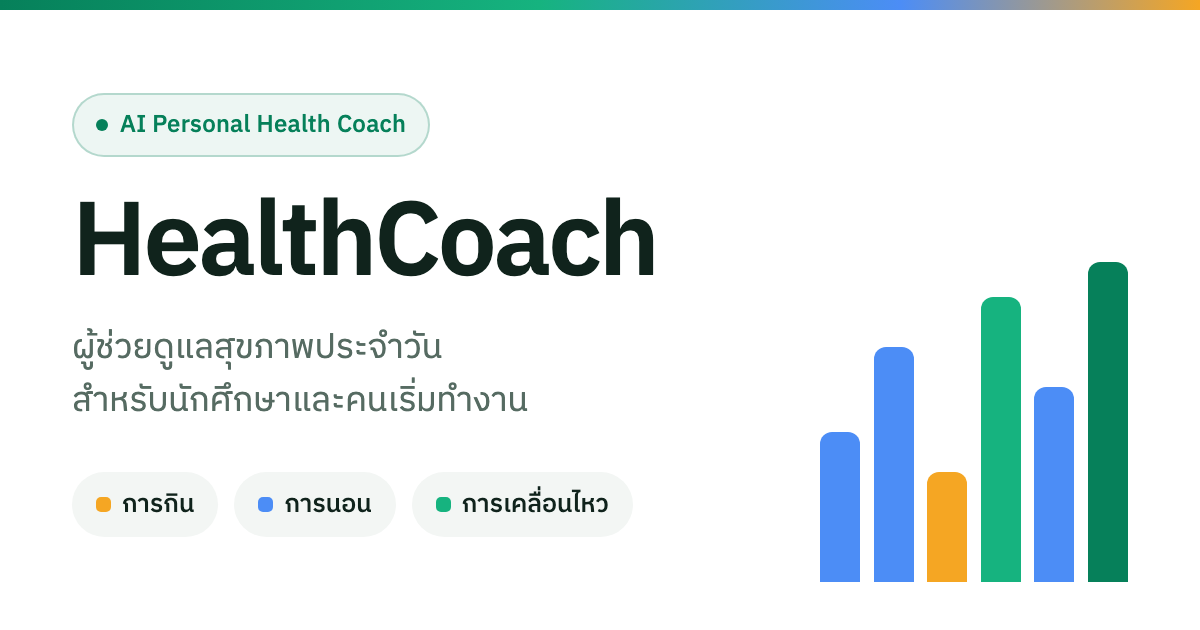
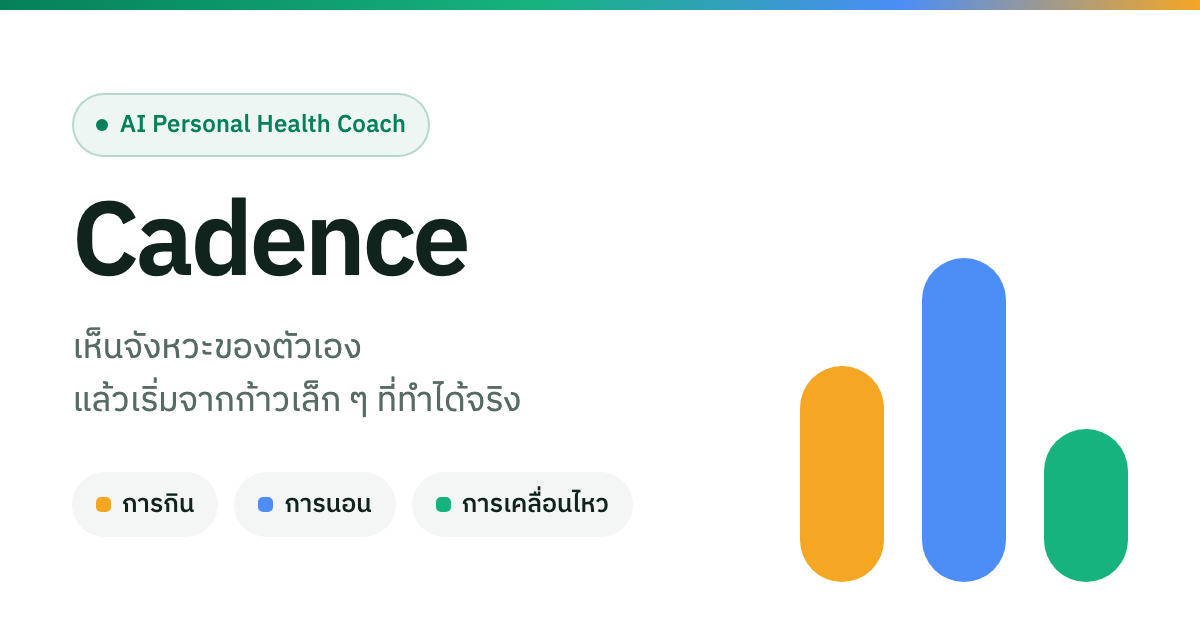
feat(brand): rename the product to Cadence and give it a mark (INFRA-28)
The mission brief prescribes fourteen deliverables and no name, so the name
was ours to choose — and "HealthCoach" promised the one thing this app
deliberately refuses to do. We removed the target rings, the scores and the
denominators because section 8 forbids pressure, then kept a name that says
we will coach you into being healthy.

Cadence says what the product actually shows: the rhythm of your days. No
cadence is right or wrong; it is just yours. The mark is the three pillars —
eating, sleep, movement — in the same chart tokens the dashboard already
uses, so brand and data are one idea rather than two.

Every URL is left untouched on purpose. Production stays on
personal-healthcoach.vercel.app, the Vercel project keeps its old name, and
the preview wildcard in ADR-0005 is unchanged, because renaming any of them
would force edits to the Supabase redirect allowlist and the Google OAuth
config — the one path in this project still unverified end to end. Judges do
not score the URL. The rename script skips any line carrying those
identifiers; package.json is left alone too, since touching it moves the lock
file.

The mark reads its colours from CSS variables so dark mode needs no branch.
The favicon moves from favicon.ico to an icon.svg file convention, which is
static and therefore carries literal hex — CSS variables cannot reach a file
the browser loads as an icon.

Renaming also exposed a test that had been passing for free: routes.spec.ts
[…]

Changed region(s): [[0.6475, 0.3921, 0.9558, 0.9349], [0.0617, 0.3016, 0.555, 0.4524], [0.0617, 0.5127, 0.4625, 0.6635]]

diff --git a/src/components/brand.tsx b/src/components/brand.tsx
@@ -1,0 +1,28 @@
+import { cn } from "@/lib/utils";
+
+export function BrandMark({ className }: { className?: string }) {
+  return (
+    <svg viewBox="0 0 48 48" aria-hidden className={cn("shrink-0", className)}>
+      <rect x="5" y="19" width="10" height="24" rx="5" fill="var(--chart-2)" />
+      <rect x="19" y="7" width="10" height="36" rx="5" fill="var(--chart-1)" />
+      <rect x="33" y="26" width="10" height="17" rx="5" fill="var(--chart-3)" />
+    </svg>
+  );
+}
+
+export function BrandLockup({
+  className,
+  markClassName,
+  wordClassName,
+}: {
+  className?: string;
+  markClassName?: string;
+  wordClassName?: string;
+}) {
+  return (
+    <span className={cn("flex items-center gap-2", className)}>
+      <BrandMark className={cn("size-6", markClassName)} />
+      <span className={cn("font-semibold", wordClassName)}>Cadence</span>
+    </span>
+  );
+}

diff --git a/src/app/page.tsx b/src/app/page.tsx
@@ -1,6 +1,7 @@
 import Link from "next/link";
 import { redirect } from "next/navigation";
 import { createClient } from "@/lib/supabase/server";
+import { BrandMark } from "@/components/brand";
 import { PILLAR_COLORS, PILLAR_ICONS, PILLAR_ORDER } from "@/components/pillar-visual";
 import { SafetyNotice } from "@/components/safety-notice";
 import { buttonVariants } from "@/components/ui/button";
@@ -17,7 +18,10 @@ export default async function LandingPage() {
   return (
     <main className="flex min-h-dvh flex-col items-center justify-center gap-8 p-4 text-center">
       <div className="space-y-3">
-        <h1 className="text-4xl font-bold tracking-tight">HealthCoach</h1>
+        <h1 className="flex items-center justify-center gap-3 text-4xl font-bold tracking-tight">
+          <BrandMark className="size-10" />
+          Cadence
+        </h1>
         <p className="max-w-md text-muted-foreground">
           ผู้ช่วยดูแลสุขภาพประจำวันสำหรับนักศึกษาและคนเริ่มทำงาน — เห็น pattern การกิน การนอน
           การเคลื่อนไหว แล้วเริ่มจากก้าวเล็ก ๆ ที่ทำได้จริง

diff --git a/src/components/onboarding/onboarding-form.tsx b/src/components/onboarding/onboarding-form.tsx
@@ -21,7 +21,7 @@ import { Label } from "@/components/ui/label";
 import { Card, CardContent, CardDescription, CardHeader, CardTitle } from "@/components/ui/card";
 
 const DISCLAIMER =
-  "HealthCoach เป็นผู้ช่วยดูแลสุขภาพประจำวัน (wellness coach) ไม่ใช่บริการทางการแพทย์ — ไม่วินิจฉัยโรค ไม่แนะนำยาหรืออาหารเสริม ไม่ให้แผนลดน้ำหนัก หากมีอาการผิดปกติหรือกังวลเรื่องสุขภาพ ควรปรึกษาแพทย์หรือผู้เชี่ยวชาญ";
+  "Cadence เป็นผู้ช่วยดูแลสุขภาพประจำวัน (wellness coach) ไม่ใช่บริการทางการแพทย์ — ไม่วินิจฉัยโรค ไม่แนะนำยาหรืออาหารเสริม ไม่ให้แผนลดน้ำหนัก หากมีอาการผิดปกติหรือกังวลเรื่องสุขภาพ ควรปรึกษาแพทย์หรือผู้เชี่ยวชาญ";
 
 const TOTAL_STEPS = 5;
 
@@ -68,7 +68,7 @@ export function OnboardingForm({ defaultName }: { defaultName: string }) {
 
   return (
     <main className="flex min-h-dvh items-center justify-center p-4">
-      <h1 className="sr-only">ตั้งค่าเริ่มต้น HealthCoach</h1>
+      <h1 className="sr-only">ตั้งค่าเริ่มต้น Cadence</h1>
       <Card className="w-full max-w-md">
         <CardHeader>
           <CardTitle>ตั้งค่าเริ่มต้น</CardTitle>
@@ -187,7 +187,7 @@ export function OnboardingForm({ defaultName }: { defaultName: string }) {
                     <Check className="size-3.5 text-primary-foreground opacity-0 peer-checked:opacity-100" />
                   </span>
                   <span>
-                    ฉันเข้าใจว่า HealthCoach เป็นผู้ช่วยดูแลสุขภาพทั่วไป ไม่ใช่คำแนะนำทางการแพทย์
+                    ฉันเข้าใจว่า Cadence เป็นผู้ช่วยดูแลสุขภาพทั่วไป ไม่ใช่คำแนะนำทางการแพทย์
                   </span>
                 </label>
               </div>

diff --git a/src/app/layout.tsx b/src/app/layout.tsx
@@ -17,8 +17,8 @@ const plexMono = IBM_Plex_Mono({
 export const metadata: Metadata = {
   metadataBase: new URL("https://personal-healthcoach.vercel.app"),
   title: {
-    default: "HealthCoach",
-    template: "%s · HealthCoach",
+    default: "Cadence",
+    template: "%s · Cadence",
   },
   description: "ผู้ช่วยดูแลสุขภาพประจำวันสำหรับนักศึกษาและคนเริ่มทำงาน",
 };

diff --git a/src/app/(app)/layout.tsx b/src/app/(app)/layout.tsx
@@ -2,6 +2,7 @@ import type { ReactNode } from "react";
 import { redirect } from "next/navigation";
 import { getCurrentUser, hasCompletedOnboarding } from "@/lib/auth/user";
 import { AppNav } from "@/components/app-nav";
+import { BrandLockup } from "@/components/brand";
 import { AppSidebar } from "@/components/app-sidebar";
 import { PageContainer } from "@/components/page-container";
 import { SafetyNotice } from "@/components/safety-notice";
@@ -26,7 +27,7 @@ export default async function AppLayout({ children }: { children: ReactNode }) {
       <div className="flex min-w-0 flex-1 flex-col">
         <header className="sticky top-0 z-10 border-b bg-background lg:hidden">
           <div className="mx-auto flex w-full max-w-5xl items-center justify-between px-4 py-2">
-            <span className="font-semibold">HealthCoach</span>
+            <BrandLockup markClassName="size-5" />
             <SignOutIconButton />
           </div>
         </header>

diff --git a/src/components/app-sidebar.tsx b/src/components/app-sidebar.tsx
@@ -3,6 +3,7 @@
 import Link from "next/link";
 import { usePathname } from "next/navigation";
 import { cn } from "@/lib/utils";
+import { BrandLockup } from "./brand";
 import { NavIcon } from "./nav-pending";
 import { NAV_ITEMS, isActivePath } from "./nav-items";
 import { SignOutMenuItem } from "./sign-out-button";
@@ -13,7 +14,7 @@ export function AppSidebar() {
   return (
     <aside className="hidden w-64 shrink-0 border-r bg-muted/30 lg:block">
       <div className="sticky top-0 flex h-dvh flex-col gap-8 p-5">
-        <span className="px-3 pt-2 text-lg font-semibold">HealthCoach</span>
+        <BrandLockup className="px-3 pt-2" wordClassName="text-lg" />
 
         <nav aria-label="เมนูหลัก">
           <ul className="space-y-1">

diff --git a/e2e/routes.spec.ts b/e2e/routes.spec.ts
@@ -72,7 +72,7 @@ test("dashboard — ข้อมูล seed ของปาล์มโผล่
 
   await expect(page.getByText("สรุปวันนี้")).toBeVisible();
   await expect(page.getByText("เป้าหมายสัปดาห์นี้", { exact: true })).toBeVisible();
-  await expect(page.getByText("ยินดีต้อนรับสู่ HealthCoach 👋")).toBeHidden();
+  await expect(page.getByText("ยังไม่มีข้อมูลสุขภาพ")).toBeHidden();
 });
 
 test("dashboard — การ์ดวิเคราะห์รูปแบบ (F2-04) แสดงทุกสถานะ cache", async ({ page }) => {

diff --git a/src/app/(app)/settings/privacy/page.tsx b/src/app/(app)/settings/privacy/page.tsx
@@ -41,7 +41,7 @@ export default function PrivacyPage() {
 
         <Card className="border-primary/10 bg-accent/20">
           <CardContent className="text-sm text-foreground">
-            HealthCoach เก็บบันทึกการกิน การนอน และการเคลื่อนไหวที่คุณกรอกเอง เพื่อแสดง pattern
+            Cadence เก็บบันทึกการกิน การนอน และการเคลื่อนไหวที่คุณกรอกเอง เพื่อแสดง pattern
             และให้คำแนะนำสำหรับคุณเท่านั้น ข้อมูลของคุณไม่ถูกแชร์ให้ผู้ใช้คนอื่นหรือบุคคลที่สาม
             คุณแก้ไขหรือลบข้อมูลทั้งหมดได้ทุกเมื่อจากหน้านี้ ระบบนี้เป็นผู้ช่วยดูแลสุขภาพทั่วไป
             ไม่ใช่บริการทางการแพทย์

diff --git a/src/app/(auth)/login/page.tsx b/src/app/(auth)/login/page.tsx
@@ -19,7 +19,7 @@ export default async function LoginPage({
         <CardTitle>
           <h1>เข้าสู่ระบบ</h1>
         </CardTitle>
-        <CardDescription>HealthCoach — ผู้ช่วยดูแลสุขภาพประจำวัน</CardDescription>
+        <CardDescription>Cadence — ผู้ช่วยดูแลสุขภาพประจำวัน</CardDescription>
       </CardHeader>
       <CardContent className="space-y-4">
         {error === "oauth" && (

diff --git a/src/app/(auth)/register/page.tsx b/src/app/(auth)/register/page.tsx
@@ -19,7 +19,7 @@ export default async function RegisterPage({
         <CardTitle>
           <h1>สมัครสมาชิก</h1>
         </CardTitle>
-        <CardDescription>เริ่มดูแลสุขภาพประจำวันกับ HealthCoach</CardDescription>
+        <CardDescription>เริ่มดูแลสุขภาพประจำวันกับ Cadence</CardDescription>
       </CardHeader>
       <CardContent className="space-y-4">
         {error === "oauth" && (

diff --git a/src/components/safety-notice.tsx b/src/components/safety-notice.tsx
@@ -3,7 +3,7 @@ import { cn } from "@/lib/utils";
 export function SafetyNotice({ className }: { className?: string }) {
   return (
     <p className={cn("text-center text-xs text-muted-foreground", className)}>
-      HealthCoach เป็นผู้ช่วยดูแลสุขภาพทั่วไป ไม่ใช่บริการทางการแพทย์ —
+      Cadence เป็นผู้ช่วยดูแลสุขภาพทั่วไป ไม่ใช่บริการทางการแพทย์ —
       หากมีอาการผิดปกติควรปรึกษาผู้เชี่ยวชาญ
     </p>
   );

diff --git a/.scratch/infra/issues/28-rebrand-cadence.md b/.scratch/infra/issues/28-rebrand-cadence.md
@@ -1,0 +1,97 @@
+# INFRA-28: เปลี่ยนชื่อแบรนด์เป็น Cadence + เพิ่มโลโก้
+
+Status: done
+Owner: A
+Sprint: 3
+Priority: M — ต้องเสร็จก่อนถ่าย screenshot ลงเด็ค ไม่งั้นถ่ายซ้ำสองรอบ
+Refs: src/components/brand.tsx, src/app/icon.svg, src/app/opengraph-image.png, CONTEXT.md
+
+## ทำไม
+
+`docs/00-mission-brief.md` **ไม่ได้บังคับชื่อ** (ไล่อ่านครบแล้ว มีแต่ deliverable 14 ข้อ)
+และแอปยังไม่มีโลโก้เลย — sidebar กับ header เป็นตัวหนังสือเปล่า
+
+"HealthCoach" บอกว่าเราจะโค้ชให้คุณสุขภาพดี ซึ่ง**ขัดกับสิ่งที่แอปทำจริง**
+เราถอดวงแหวนเป้าหมายออก (UX-02) ไม่มีคะแนน ไม่มีตัวหาร เพราะ §8 ของโจทย์ห้ามกดดัน
+
+**Cadence** = จังหวะ · ไม่มี cadence ไหนถูกหรือผิด มีแต่ของคุณ
+ได้ประโยคขึ้นเวทีว่า *"เราไม่ให้คะแนนสุขภาพคุณ เราแค่ให้คุณเห็นจังหวะของตัวเอง"*
+ซึ่งกินเกณฑ์ Target User Fit (15%) กับ Safety (10%) พร้อมกัน
+
+โลโก้ = 3 เสาหลัก กิน·นอน·ขยับ ใช้สี `--chart-2/1/3` เดิม → แบรนด์กับ dashboard เป็นเรื่องเดียวกัน
+
+## ขอบเขต — สิ่งที่ **ห้าม** เปลี่ยน
+
+URL ทั้งหมดคงเดิม เพื่อไม่ต้องแตะ OAuth ซึ่งเป็นจุดเดียวที่ยังยืนยัน end-to-end ไม่ได้:
+
+- `personal-healthcoach.vercel.app` (prod) และ `metadataBase`
+- wildcard preview `healthcoach-*-nkieus-projects.vercel.app` ใน ADR-0005
+- Vercel project ที่ชื่อ `healthcoach`
+- `package.json` field `name` — แตะแล้ว lock file ขยับ ผิดกฎบอร์ดข้อ 3
+- ไฟล์บันทึกย้อนหลังใน `.scratch/` (issue เก่า · log การรัน) — เป็นบันทึกว่า
+  ตอนนั้นเกิดอะไรขึ้นจริง เขียนทับ = ปลอมประวัติ
+
+## ขอบเขต — สิ่งที่เปลี่ยน
+
+- UI copy ทุกจุด รวม **ข้อความ safety** (`safety-notice.tsx`, disclaimer ใน onboarding,
+  ข้อความ privacy) — ต้องอ่านแล้วยังชัดว่าไม่ใช่บริการทางการแพทย์
+- metadata `title.default` / `template` · OG card + alt text · favicon
+- `CONTEXT.md` (ภาษากลาง) · `README` · `DESIGN.md` · `AGENTS.md` · `docs/` · `BOARD.md`
+- เด็ค `docs/pitch/deck-outline.md`
+
+## พ่วงมาด้วย: e2e ที่ยืนยันสตริงที่ตายแล้ว
+
+`routes.spec.ts:75` เช็คว่า `"ยินดีต้อนรับสู่ HealthCoach 👋"` ถูกซ่อน —
+สตริงนี้**ไม่มีอยู่ในโค้ดแล้ว** เทสจึงผ่านฟรีทุกครั้ง ไม่ได้ยืนยันอะไรเลย
+
+เจตนาของเทสคือ "dashboard ต้องไม่ขึ้น empty state" → เปลี่ยนไปเช็ค
+`"ยังไม่มีข้อมูลสุขภาพ"` ซึ่งเป็น empty state จริงของหน้านี้
+
+## Definition of done
+
+- [x] ไม่มีคำว่า HealthCoach เหลือใน UI · URL ทุกอันยังเป็น `personal-healthcoach` เหมือนเดิม
+- [x] มาร์กใช้ `var(--chart-*)` ไม่ hardcode hex (ยกเว้น `icon.svg` ที่เป็นไฟล์ static)
+- [x] favicon · OG card เป็นแบรนด์ใหม่
+- [x] ด่าน CI ครบ 5 + `npm run e2e`
+
+## Comments
+
+### 21 ก.ค. 2026 — A
+
+**มาร์ก** = `src/components/brand.tsx` ให้ `BrandMark` กับ `BrandLockup`
+ใช้ `var(--chart-2/1/3)` → พลิกตาม dark mode เองโดยไม่ต้องมีโค้ดเงื่อนไข
+วางที่ sidebar · header มือถือ · h1 หน้าแรก
+
+**favicon** เปลี่ยนจาก `favicon.ico` เป็น `src/app/icon.svg` (file convention ของ Next)
+ไฟล์นี้เป็น static asset จึงใส่ hex ตรง ๆ ได้ ไม่ผิดกฎ `DESIGN.md`
+เพราะ CSS variable ไม่ทำงานในไฟล์ที่เบราว์เซอร์โหลดเป็นไอคอน
+
+**OG card** วาดใหม่ให้เป็นมาร์กขยายใหญ่ + wordmark
+tagline เปลี่ยนเป็น "เห็นจังหวะของตัวเอง / แล้วเริ่มจากก้าวเล็ก ๆ ที่ทำได้จริง"
+
+**การกันไม่ให้ไปแตะ URL** — สคริปต์ rename ข้ามทุกบรรทัดที่มี
+`personal-healthcoach` · `healthcoach-*` · `` `healthcoach` `` · `cd HealthCoach`
+ตรวจหลังทำแล้ว: `src/` กับ `e2e/` ไม่เหลือคำว่า HealthCoach · URL ทุกอันยังอยู่ครบ
+
+ยืนยันจาก production build จริง:
+
+| จุด | ค่าที่ได้ |
+| --- | --- |
+| `<title>` | ภาพรวมสุขภาพ · Cadence |
+| sidebar | Cadence (พร้อมมาร์ก) |
+| favicon | `/icon.svg` |
+| h1 หน้าแรก | Cadence |
+| ข้อความ safety | Cadence เป็นผู้ช่วยดูแลสุขภาพทั่วไป ไม่ใช่บริการทางการแพทย์ — … |
+| `og:title` | Cadence |
+
+**e2e ที่แก้พ่วง** — `routes.spec.ts:75` เคยเช็คว่า `"ยินดีต้อนรับสู่ HealthCoach 👋"` ถูกซ่อน
+แต่สตริงนั้นไม่มีในโค้ดแล้ว เทสจึงผ่านฟรีมาตลอด ไม่ได้ยืนยันอะไร
+เปลี่ยนไปเช็ค `"ยังไม่มีข้อมูลสุขภาพ"` ซึ่งเป็น empty state จริงของ dashboard
+
+ด่าน: format ✓ · lint ✓ (warning เดิม 1 อัน) · tsc ✓ · unit 135 ✓ · build ✓ · **e2e 61 ผ่าน 0 พัง**
+
+### ยังไม่ได้ทำ — ต้องมีคนทำต่อ
+
+- **เด็ค** `docs/pitch/deck-outline.md` เปลี่ยนชื่อระบบให้แล้ว แต่สไลด์จริงยังไม่มี
+- **screenshot** `docs/pitch/screenshots/` ยังเป็นของเก่า ต้องถ่ายใหม่หลัง deploy
+- **แจ้งทีม** — แบรนด์เปลี่ยนกระทบทุกคน